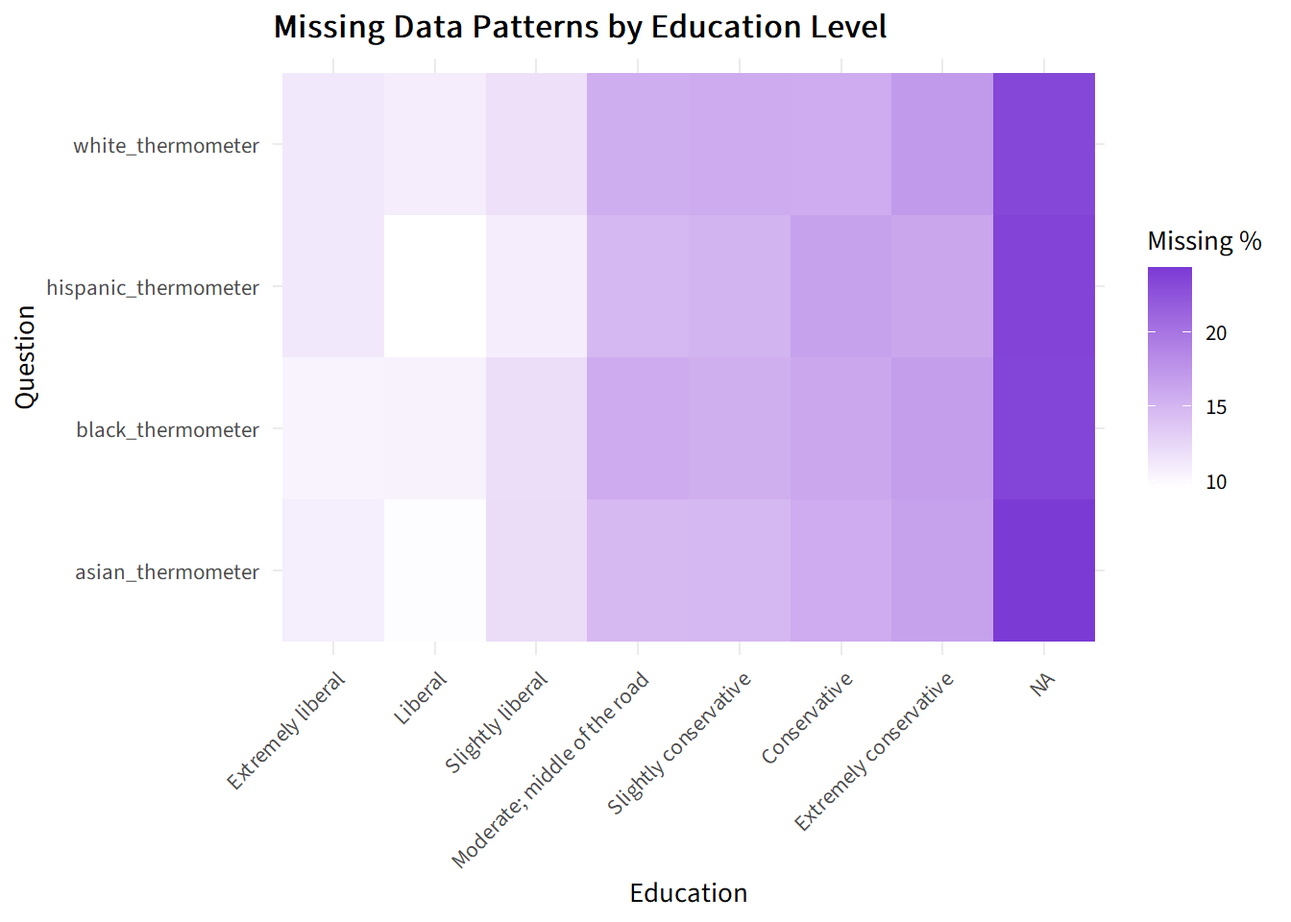
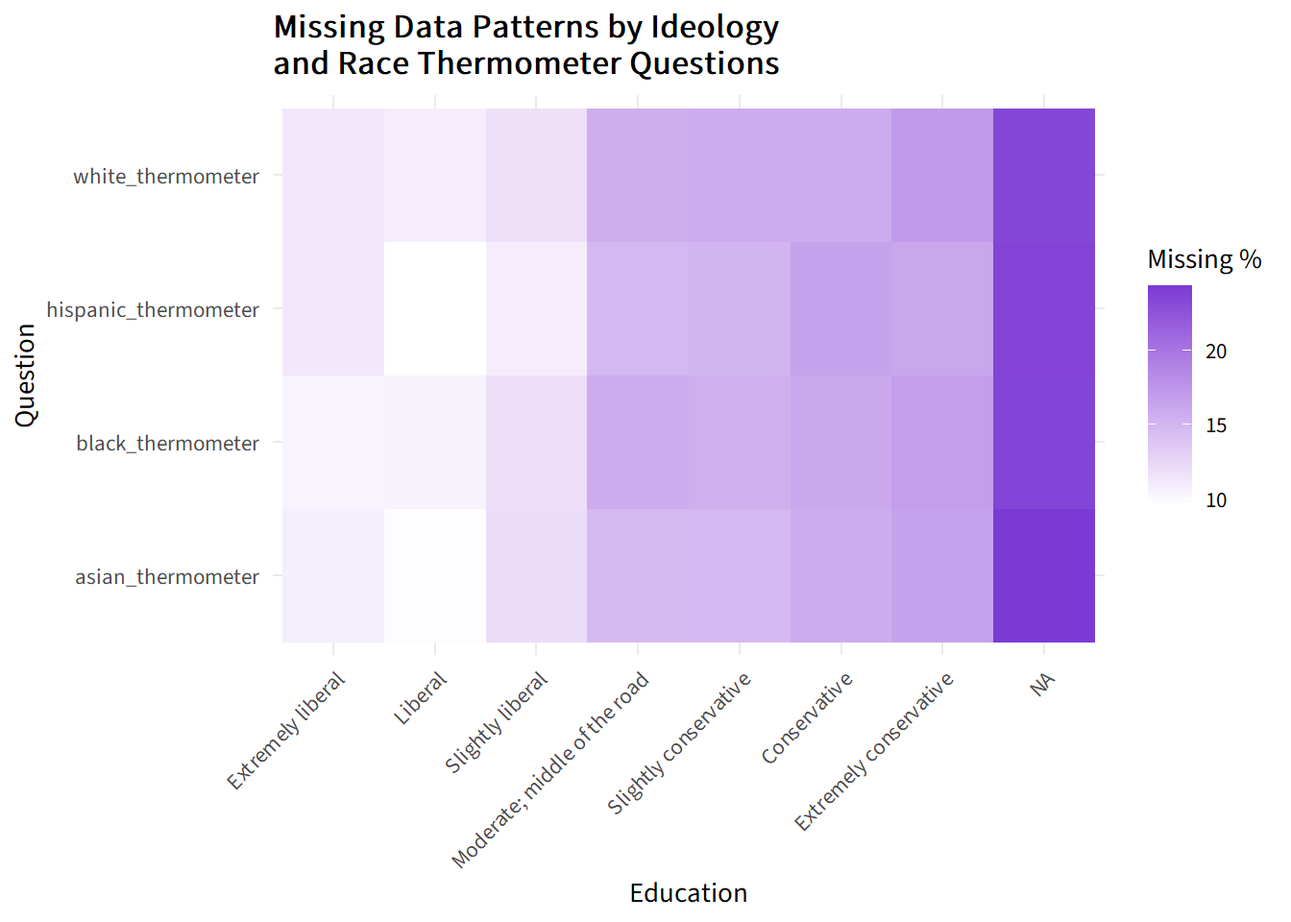
title changes to graphs

diff --git a/R Files/missing_data_analysis.html b/R Files/missing_data_analysis.html
@@ -121,12 +121,12 @@ pre > code.sourceCode > span > a:first-child::before { text-decoration: underlin
 <span id="cb4-5"><a href="#cb4-5" aria-hidden="true" tabindex="-1"></a>      race_ethnicity <span class="sc">==</span> <span class="st">'-9'</span> <span class="sc">~</span> <span class="st">"Refused"</span>,</span>
 <span id="cb4-6"><a href="#cb4-6" aria-hidden="true" tabindex="-1"></a>      race_ethnicity <span class="sc">==</span> <span class="st">'-8'</span> <span class="sc">~</span> <span class="st">"Don't know"</span>,</span>
 <span id="cb4-7"><a href="#cb4-7" aria-hidden="true" tabindex="-1"></a>      race_ethnicity <span class="sc">==</span> <span class="st">'-4'</span> <span class="sc">~</span> <span class="st">"Error"</span>,</span>
-<span id="cb4-8"><a href="#cb4-8" aria-hidden="true" tabindex="-1"></a>      race_ethnicity <span class="sc">==</span> <span class="st">'1'</span> <span class="sc">~</span> <span class="st">"White, non-Hispanic"</span>,</span>
-<span id="cb4-9"><a href="#cb4-9" aria-hidden="true" tabindex="-1"></a>      race_ethnicity <span class="sc">==</span> <span class="st">'2'</span> <span class="sc">~</span> <span class="st">"Black, non-Hispanic"</span>,</span>
+<span id="cb4-8"><a href="#cb4-8" aria-hidden="true" tabindex="-1"></a>      race_ethnicity <span class="sc">==</span> <span class="st">'1'</span> <span class="sc">~</span> <span class="st">"White"</span>,</span>
+<span id="cb4-9"><a href="#cb4-9" aria-hidden="true" tabindex="-1"></a>      race_ethnicity <span class="sc">==</span> <span class="st">'2'</span> <span class="sc">~</span> <span class="st">"Black"</span>,</span>
 <span id="cb4-10"><a href="#cb4-10" aria-hidden="true" tabindex="-1"></a>      race_ethnicity <span class="sc">==</span> <span class="st">'3'</span> <span class="sc">~</span> <span class="st">"Hispanic"</span>,</span>
-<span id="cb4-11"><a href="#cb4-11" aria-hidden="true" tabindex="-1"></a>      race_ethnicity <span class="sc">==</span> <span class="st">'4'</span> <span class="sc">~</span> <span class="st">"Asian or Native Hawaiian/other Pacific Islander, non-Hispanic"</span>,</span>
-<span id="cb4-12"><a href="#cb4-12" aria-hidden="true" tabindex="-1"></a>      race_ethnicity <span class="sc">==</span> <span class="st">'5'</span> <span class="sc">~</span> <span class="st">"Native American/Alaska Native or other race, non-Hispanic"</span>,</span>
-<span id="cb4-13"><a href="#cb4-13" aria-hidden="true" tabindex="-1"></a>      race_ethnicity <span class="sc">==</span> <span class="st">'6'</span> <span class="sc">~</span> <span class="st">"Multiple races, non-Hispanic"</span>,</span>
+<span id="cb4-11"><a href="#cb4-11" aria-hidden="true" tabindex="-1"></a>      race_ethnicity <span class="sc">==</span> <span class="st">'4'</span> <span class="sc">~</span> <span class="st">"Asian/Native Hawaiian/other Pacific Islander"</span>,</span>
+<span id="cb4-12"><a href="#cb4-12" aria-hidden="true" tabindex="-1"></a>      race_ethnicity <span class="sc">==</span> <span class="st">'5'</span> <span class="sc">~</span> <span class="st">"Native American/Alaska Native/other"</span>,</span>
+<span id="cb4-13"><a href="#cb4-13" aria-hidden="true" tabindex="-1"></a>      race_ethnicity <span class="sc">==</span> <span class="st">'6'</span> <span class="sc">~</span> <span class="st">"Multiple races"</span>,</span>
 <span id="cb4-14"><a href="#cb4-14" aria-hidden="true" tabindex="-1"></a>      <span class="cn">TRUE</span> <span class="sc">~</span> <span class="fu">as.character</span>(race_ethnicity)</span>
 <span id="cb4-15"><a href="#cb4-15" aria-hidden="true" tabindex="-1"></a>    ),</span>
 <span id="cb4-16"><a href="#cb4-16" aria-hidden="true" tabindex="-1"></a>    <span class="at">gender =</span> <span class="fu">case_when</span>(</span>
@@ -327,7 +327,7 @@ pre > code.sourceCode > span > a:first-child::before { text-decoration: underlin
 <span id="cb13-3"><a href="#cb13-3" aria-hidden="true" tabindex="-1"></a>  <span class="fu">gg_miss_fct</span>(<span class="at">fct =</span> educ) <span class="sc">+</span></span>
 <span id="cb13-4"><a href="#cb13-4" aria-hidden="true" tabindex="-1"></a>  <span class="fu">scale_fill_gradient</span>(<span class="at">low =</span> <span class="st">"white"</span>, <span class="at">high =</span> <span class="st">"#7b3ad4"</span>) <span class="sc">+</span></span>
 <span id="cb13-5"><a href="#cb13-5" aria-hidden="true" tabindex="-1"></a>  <span class="fu">theme_minimal</span>() <span class="sc">+</span></span>
-<span id="cb13-6"><a href="#cb13-6" aria-hidden="true" tabindex="-1"></a>  <span class="fu">labs</span>(<span class="at">title =</span> <span class="st">"Missing Data Patterns by Education Level"</span>,</span>
+<span id="cb13-6"><a href="#cb13-6" aria-hidden="true" tabindex="-1"></a>  <span class="fu">labs</span>(<span class="at">title =</span> <span class="st">"Missing Data Patterns by Education Level </span><span class="sc">\n</span><span class="st">and Race Thermometer Questions"</span>,</span>
 <span id="cb13-7"><a href="#cb13-7" aria-hidden="true" tabindex="-1"></a>       <span class="at">x =</span> <span class="st">"Education"</span>,</span>
 <span id="cb13-8"><a href="#cb13-8" aria-hidden="true" tabindex="-1"></a>       <span class="at">y =</span> <span class="st">"Question"</span>,</span>
 <span id="cb13-9"><a href="#cb13-9" aria-hidden="true" tabindex="-1"></a>       <span class="at">fill =</span> <span class="st">"Missing %"</span>) <span class="sc">+</span></span>
@@ -347,33 +347,42 @@ pre > code.sourceCode > span > a:first-child::before { text-decoration: underlin
 </div>
 <div class="cell">
 <div class="sourceCode cell-code" id="cb14"><pre class="sourceCode r code-with-copy"><code class="sourceCode r"><span id="cb14-1"><a href="#cb14-1" aria-hidden="true" tabindex="-1"></a>anes_2024 <span class="sc">|&gt;</span></span>
-<span id="cb14-2"><a href="#cb14-2" aria-hidden="true" tabindex="-1"></a>  <span class="fu">select</span>(lib_con_7pt, white_thermometer, black_thermometer, asian_thermometer, hispanic_thermometer) <span class="sc">|&gt;</span></span>
-<span id="cb14-3"><a href="#cb14-3" aria-hidden="true" tabindex="-1"></a>  <span class="fu">gg_miss_fct</span>(<span class="at">fct =</span> lib_con_7pt) <span class="sc">+</span></span>
-<span id="cb14-4"><a href="#cb14-4" aria-hidden="true" tabindex="-1"></a>  <span class="fu">scale_fill_gradient</span>(<span class="at">low =</span> <span class="st">"white"</span>, <span class="at">high =</span> <span class="st">"#7b3ad4"</span>) <span class="sc">+</span></span>
-<span id="cb14-5"><a href="#cb14-5" aria-hidden="true" tabindex="-1"></a>  <span class="fu">theme_minimal</span>() <span class="sc">+</span></span>
-<span id="cb14-6"><a href="#cb14-6" aria-hidden="true" tabindex="-1"></a>  <span class="fu">labs</span>(<span class="at">title =</span> <span class="st">"Missing Data Patterns by Education Level"</span>,</span>
-<span id="cb14-7"><a href="#cb14-7" aria-hidden="true" tabindex="-1"></a>       <span class="at">x =</span> <span class="st">"Education"</span>,</span>
-<span id="cb14-8"><a href="#cb14-8" aria-hidden="true" tabindex="-1"></a>       <span class="at">y =</span> <span class="st">"Question"</span>,</span>
-<span id="cb14-9"><a href="#cb14-9" aria-hidden="true" tabindex="-1"></a>       <span class="at">fill =</span> <span class="st">"Missing %"</span>) <span class="sc">+</span></span>
-<span id="cb14-10"><a href="#cb14-10" aria-hidden="true" tabindex="-1"></a>  <span class="fu">theme</span>(</span>
-<span id="cb14-11"><a href="#cb14-11" aria-hidden="true" tabindex="-1"></a>    <span class="at">text =</span> <span class="fu">element_text</span>(<span class="at">family =</span> <span class="st">"Source Sans 3"</span>),</span>
-<span id="cb14-12"><a href="#cb14-12" aria-hidden="true" tabindex="-1"></a>    <span class="at">plot.title =</span> <span class="fu">element_text</span>(<span class="at">face =</span> <span class="st">"bold"</span>),</span>
-<span id="cb14-13"><a href="#cb14-13" aria-hidden="true" tabindex="-1"></a>    <span class="at">plot.caption =</span> <span class="fu">element_text</span>(<span class="at">face =</span> <span class="st">"italic"</span>),</span>
-<span id="cb14-14"><a href="#cb14-14" aria-hidden="true" tabindex="-1"></a>    <span class="at">axis.text.x =</span> <span class="fu">element_text</span>(<span class="at">angle =</span> <span class="dv">45</span>, <span class="at">hjust =</span> <span class="dv">1</span>)</span>
-<span id="cb14-15"><a href="#cb14-15" aria-hidden="true" tabindex="-1"></a>    )</span></code><button title="Copy to Clipboard" class="code-copy-button"><i class="bi"></i></button></pre></div>
+<span id="cb14-2"><a href="#cb14-2" aria-hidden="true" tabindex="-1"></a>  <span class="fu">select</span>(race_ethnicity, white_thermometer, black_thermometer, asian_thermometer, hispanic_thermometer) <span class="sc">|&gt;</span></span>
+<span id="cb14-3"><a href="#cb14-3" aria-hidden="true" tabindex="-1"></a>  <span class="fu">mutate</span>(<span class="at">race_ethnicity =</span> <span class="fu">fct_relevel</span>(</span>
+<span id="cb14-4"><a href="#cb14-4" aria-hidden="true" tabindex="-1"></a>    race_ethnicity, </span>
+<span id="cb14-5"><a href="#cb14-5" aria-hidden="true" tabindex="-1"></a>    <span class="st">"White"</span>, </span>
+<span id="cb14-6"><a href="#cb14-6" aria-hidden="true" tabindex="-1"></a>    <span class="st">"Hispanic"</span>, </span>
+<span id="cb14-7"><a href="#cb14-7" aria-hidden="true" tabindex="-1"></a>    <span class="st">"Black"</span>, </span>
+<span id="cb14-8"><a href="#cb14-8" aria-hidden="true" tabindex="-1"></a>    <span class="st">"Asian/Native Hawaiian/other Pacific Islander"</span>,</span>
+<span id="cb14-9"><a href="#cb14-9" aria-hidden="true" tabindex="-1"></a>    <span class="st">"Native American/Alaska Native/other"</span>)) <span class="sc">|&gt;</span></span>
+<span id="cb14-10"><a href="#cb14-10" aria-hidden="true" tabindex="-1"></a>  <span class="fu">gg_miss_fct</span>(<span class="at">fct =</span> race_ethnicity) <span class="sc">+</span></span>
+<span id="cb14-11"><a href="#cb14-11" aria-hidden="true" tabindex="-1"></a>  <span class="fu">scale_fill_gradient</span>(<span class="at">low =</span> <span class="st">"white"</span>, <span class="at">high =</span> <span class="st">"#7b3ad4"</span>) <span class="sc">+</span></span>
+<span id="cb14-12"><a href="#cb14-12" aria-hidden="true" tabindex="-1"></a>  <span class="fu">theme_minimal</span>() <span class="sc">+</span></span>
+<span id="cb14-13"><a href="#cb14-13" aria-hidden="true" tabindex="-1"></a>  <span class="fu">labs</span>(<span class="at">title =</span> <span class="st">"Missing Data Patterns by Race </span><span class="sc">\n</span><span class="st">and Race Thermometer Questions"</span>,</span>
+<span id="cb14-14"><a href="#cb14-14" aria-hidden="true" tabindex="-1"></a>       <span class="at">x =</span> <span class="st">"Race"</span>,</span>
+<span id="cb14-15"><a href="#cb14-15" aria-hidden="true" tabindex="-1"></a>       <span class="at">y =</span> <span class="st">"Question"</span>,</span>
+<span id="cb14-16"><a href="#cb14-16" aria-hidden="true" tabindex="-1"></a>       <span class="at">fill =</span> <span class="st">"Missing %"</span>) <span class="sc">+</span></span>
+<span id="cb14-17"><a href="#cb14-17" aria-hidden="true" tabindex="-1"></a>  <span class="fu">theme</span>(</span>
+<span id="cb14-18"><a href="#cb14-18" aria-hidden="true" tabindex="-1"></a>    <span class="at">text =</span> <span class="fu">element_text</span>(<span class="at">family =</span> <span class="st">"Source Sans 3"</span>),</span>
+<span id="cb14-19"><a href="#cb14-19" aria-hidden="true" tabindex="-1"></a>    <span class="at">plot.title =</span> <span class="fu">element_text</span>(<span class="at">face =</span> <span class="st">"bold"</span>),</span>
+<span id="cb14-20"><a href="#cb14-20" aria-hidden="true" tabindex="-1"></a>    <span class="at">plot.caption =</span> <span class="fu">element_text</span>(<span class="at">face =</span> <span class="st">"italic"</span>),</span>
+<span id="cb14-21"><a href="#cb14-21" aria-hidden="true" tabindex="-1"></a>    <span class="at">axis.text.x =</span> <span class="fu">element_text</span>(<span class="at">angle =</span> <span class="dv">45</span>, <span class="at">hjust =</span> <span class="dv">1</span>),</span>
+<span id="cb14-22"><a href="#cb14-22" aria-hidden="true" tabindex="-1"></a>    )</span></code><button title="Copy to Clipboard" class="code-copy-button"><i class="bi"></i></button></pre></div>
 <div class="cell-output-display">
 <div>
 <figure class="figure">
-<p><img src="missing_data_analysis_files/figure-html/missing-heatmap-libcon-1.png" class="img-fluid figure-img" width="672"></p>
+<p><img src="missing_data_analysis_files/figure-html/missing-heatmap-race-1.png" class="img-fluid figure-img" width="672"></p>
 </figure>
 </div>
 </div>
+</div>
+<div class="cell">
 <div class="sourceCode cell-code" id="cb15"><pre class="sourceCode r code-with-copy"><code class="sourceCode r"><span id="cb15-1"><a href="#cb15-1" aria-hidden="true" tabindex="-1"></a>anes_2024 <span class="sc">|&gt;</span></span>
 <span id="cb15-2"><a href="#cb15-2" aria-hidden="true" tabindex="-1"></a>  <span class="fu">select</span>(lib_con_7pt, white_thermometer, black_thermometer, asian_thermometer, hispanic_thermometer) <span class="sc">|&gt;</span></span>
 <span id="cb15-3"><a href="#cb15-3" aria-hidden="true" tabindex="-1"></a>  <span class="fu">gg_miss_fct</span>(<span class="at">fct =</span> lib_con_7pt) <span class="sc">+</span></span>
 <span id="cb15-4"><a href="#cb15-4" aria-hidden="true" tabindex="-1"></a>  <span class="fu">scale_fill_gradient</span>(<span class="at">low =</span> <span class="st">"white"</span>, <span class="at">high =</span> <span class="st">"#7b3ad4"</span>) <span class="sc">+</span></span>
 <span id="cb15-5"><a href="#cb15-5" aria-hidden="true" tabindex="-1"></a>  <span class="fu">theme_minimal</span>() <span class="sc">+</span></span>
-<span id="cb15-6"><a href="#cb15-6" aria-hidden="true" tabindex="-1"></a>  <span class="fu">labs</span>(<span class="at">title =</span> <span class="st">"Missing Data Patterns by Education Level"</span>,</span>
+<span id="cb15-6"><a href="#cb15-6" aria-hidden="true" tabindex="-1"></a>  <span class="fu">labs</span>(<span class="at">title =</span> <span class="st">"Missing Data Patterns by Ideology </span><span class="sc">\n</span><span class="st">and Race Thermometer Questions"</span>,</span>
 <span id="cb15-7"><a href="#cb15-7" aria-hidden="true" tabindex="-1"></a>       <span class="at">x =</span> <span class="st">"Education"</span>,</span>
 <span id="cb15-8"><a href="#cb15-8" aria-hidden="true" tabindex="-1"></a>       <span class="at">y =</span> <span class="st">"Question"</span>,</span>
 <span id="cb15-9"><a href="#cb15-9" aria-hidden="true" tabindex="-1"></a>       <span class="at">fill =</span> <span class="st">"Missing %"</span>) <span class="sc">+</span></span>
@@ -386,16 +395,16 @@ pre > code.sourceCode > span > a:first-child::before { text-decoration: underlin
 <div class="cell-output-display">
 <div>
 <figure class="figure">
-<p><img src="missing_data_analysis_files/figure-html/missing-heatmap-libcon-2.png" class="img-fluid figure-img" width="672"></p>
+<p><img src="missing_data_analysis_files/figure-html/missing-heatmap-libcon-1.png" class="img-fluid figure-img" width="672"></p>
 </figure>
 </div>
 </div>
 <div class="sourceCode cell-code" id="cb16"><pre class="sourceCode r code-with-copy"><code class="sourceCode r"><span id="cb16-1"><a href="#cb16-1" aria-hidden="true" tabindex="-1"></a>anes_2024 <span class="sc">|&gt;</span></span>
-<span id="cb16-2"><a href="#cb16-2" aria-hidden="true" tabindex="-1"></a>  <span class="fu">select</span>(lib_con_7pt, gay_marriage, poli_party_reg, pres_vote, import_limits) <span class="sc">|&gt;</span></span>
+<span id="cb16-2"><a href="#cb16-2" aria-hidden="true" tabindex="-1"></a>  <span class="fu">select</span>(lib_con_7pt, gay_marriage_view, gay_marriage, poli_party_reg, pres_vote, import_limits) <span class="sc">|&gt;</span></span>
 <span id="cb16-3"><a href="#cb16-3" aria-hidden="true" tabindex="-1"></a>  <span class="fu">gg_miss_fct</span>(<span class="at">fct =</span> lib_con_7pt) <span class="sc">+</span></span>
 <span id="cb16-4"><a href="#cb16-4" aria-hidden="true" tabindex="-1"></a>  <span class="fu">scale_fill_gradient</span>(<span class="at">low =</span> <span class="st">"white"</span>, <span class="at">high =</span> <span class="st">"#7b3ad4"</span>) <span class="sc">+</span></span>
 <span id="cb16-5"><a href="#cb16-5" aria-hidden="true" tabindex="-1"></a>  <span class="fu">theme_minimal</span>() <span class="sc">+</span></span>
-<span id="cb16-6"><a href="#cb16-6" aria-hidden="true" tabindex="-1"></a>  <span class="fu">labs</span>(<span class="at">title =</span> <span class="st">"Missing Data Patterns by Education Level"</span>,</span>
+<span id="cb16-6"><a href="#cb16-6" aria-hidden="true" tabindex="-1"></a>  <span class="fu">labs</span>(<span class="at">title =</span> <span class="st">"Missing Data Patterns by Ideology </span><span class="sc">\n</span><span class="st">and Top 5 Unanswered Questions"</span>,</span>
 <span id="cb16-7"><a href="#cb16-7" aria-hidden="true" tabindex="-1"></a>       <span class="at">x =</span> <span class="st">"Education"</span>,</span>
 <span id="cb16-8"><a href="#cb16-8" aria-hidden="true" tabindex="-1"></a>       <span class="at">y =</span> <span class="st">"Question"</span>,</span>
 <span id="cb16-9"><a href="#cb16-9" aria-hidden="true" tabindex="-1"></a>       <span class="at">fill =</span> <span class="st">"Missing %"</span>) <span class="sc">+</span></span>
@@ -408,74 +417,29 @@ pre > code.sourceCode > span > a:first-child::before { text-decoration: underlin
 <div class="cell-output-display">
 <div>
 <figure class="figure">
-<p><img src="missing_data_analysis_files/figure-html/missing-heatmap-libcon-3.png" class="img-fluid figure-img" width="672"></p>
+<p><img src="missing_data_analysis_files/figure-html/missing-heatmap-libcon-2.png" class="img-fluid figure-img" width="672"></p>
 </figure>
 </div>
 </div>
-</div>
-<div class="cell">
 <div class="sourceCode cell-code" id="cb17"><pre class="sourceCode r code-with-copy"><code class="sourceCode r"><span id="cb17-1"><a href="#cb17-1" aria-hidden="true" tabindex="-1"></a>anes_2024 <span class="sc">|&gt;</span></span>
-<span id="cb17-2"><a href="#cb17-2" aria-hidden="true" tabindex="-1"></a>  <span class="fu">select</span>(lib_con_7pt, sexual_harassment, budget_healthcare, gun_ban_assault_rifles, gun_difficulty, blm_thermometer) <span class="sc">|&gt;</span></span>
-<span id="cb17-3"><a href="#cb17-3" aria-hidden="true" tabindex="-1"></a>  <span class="fu">gg_miss_fct</span>(<span class="at">fct =</span> lib_con_7pt) <span class="sc">+</span></span>
-<span id="cb17-4"><a href="#cb17-4" aria-hidden="true" tabindex="-1"></a>  <span class="fu">scale_fill_gradient</span>(<span class="at">low =</span> <span class="st">"white"</span>, <span class="at">high =</span> <span class="st">"#7b3ad4"</span>) <span class="sc">+</span></span>
-<span id="cb17-5"><a href="#cb17-5" aria-hidden="true" tabindex="-1"></a>  <span class="fu">theme_minimal</span>() <span class="sc">+</span></span>
-<span id="cb17-6"><a href="#cb17-6" aria-hidden="true" tabindex="-1"></a>  <span class="fu">labs</span>(<span class="at">title =</span> <span class="st">"Missing Data Patterns by Education Level and Liberal Concerns"</span>,</span>
-<span id="cb17-7"><a href="#cb17-7" aria-hidden="true" tabindex="-1"></a>       <span class="at">x =</span> <span class="st">"Education"</span>,</span>
-<span id="cb17-8"><a href="#cb17-8" aria-hidden="true" tabindex="-1"></a>       <span class="at">y =</span> <span class="st">"Question"</span>,</span>
-<span id="cb17-9"><a href="#cb17-9" aria-hidden="true" tabindex="-1"></a>       <span class="at">fill =</span> <span class="st">"Missing %"</span>) <span class="sc">+</span></span>
-<span id="cb17-10"><a href="#cb17-10" aria-hidden="true" tabindex="-1"></a>  <span class="fu">theme</span>(</span>
-<span id="cb17-11"><a href="#cb17-11" aria-hidden="true" tabindex="-1"></a>    <span class="at">text =</span> <span class="fu">element_text</span>(<span class="at">family =</span> <span class="st">"Source Sans 3"</span>),</span>
-<span id="cb17-12"><a href="#cb17-12" aria-hidden="true" tabindex="-1"></a>    <span class="at">plot.title =</span> <span class="fu">element_text</span>(<span class="at">face =</span> <span class="st">"bold"</span>),</span>
-<span id="cb17-13"><a href="#cb17-13" aria-hidden="true" tabindex="-1"></a>    <span class="at">plot.caption =</span> <span class="fu">element_text</span>(<span class="at">face =</span> <span class="st">"italic"</span>),</span>
-<span id="cb17-14"><a href="#cb17-14" aria-hidden="true" tabindex="-1"></a>    <span class="at">axis.text.x =</span> <span class="fu">element_text</span>(<span class="at">angle =</span> <span class="dv">45</span>, <span class="at">hjust =</span> <span class="dv">1</span>)</span>
+<span id="cb17-2"><a href="#cb17-2" aria-hidden="true" tabindex="-1"></a>  <span class="fu">gg_miss_fct</span>(<span class="at">fct =</span> lib_con_7pt) <span class="sc">+</span></span>
+<span id="cb17-3"><a href="#cb17-3" aria-hidden="true" tabindex="-1"></a>  <span class="fu">scale_fill_gradient</span>(<span class="at">low =</span> <span class="st">"white"</span>, <span class="at">high =</span> <span class="st">"#7b3ad4"</span>) <span class="sc">+</span></span>
+<span id="cb17-4"><a href="#cb17-4" aria-hidden="true" tabindex="-1"></a>  <span class="fu">theme_minimal</span>() <span class="sc">+</span></span>
+<span id="cb17-5"><a href="#cb17-5" aria-hidden="true" tabindex="-1"></a>  <span class="fu">labs</span>(<span class="at">title =</span> <span class="st">"Missing Data Patterns by Ideology </span><span class="sc">\n</span><span class="st">and All Survey Questions"</span>,</span>
+<span id="cb17-6"><a href="#cb17-6" aria-hidden="true" tabindex="-1"></a>       <span class="at">x =</span> <span class="st">"Education"</span>,</span>
+<span id="cb17-7"><a href="#cb17-7" aria-hidden="true" tabindex="-1"></a>       <span class="at">y =</span> <span class="st">"Question"</span>,</span>
+<span id="cb17-8"><a href="#cb17-8" aria-hidden="true" tabindex="-1"></a>       <span class="at">fill =</span> <span class="st">"Missing %"</span>) <span class="sc">+</span></span>
+<span id="cb17-9"><a href="#cb17-9" aria-hidden="true" tabindex="-1"></a>  <span class="fu">theme</span>(</span>
+<span id="cb17-10"><a href="#cb17-10" aria-hidden="true" tabindex="-1"></a>    <span class="at">text =</span> <span class="fu">element_text</span>(<span class="at">family =</span> <span class="st">"Source Sans 3"</span>),</span>
+<span id="cb17-11"><a href="#cb17-11" aria-hidden="true" tabindex="-1"></a>    <span class="at">plot.title =</span> <span class="fu">element_text</span>(<span class="at">face =</span> <span class="st">"bold"</span>),</span>
+<span id="cb17-12"><a href="#cb17-12" aria-hidden="true" tabindex="-1"></a>    <span class="at">plot.caption =</span> <span class="fu">element_text</span>(<span class="at">face =</span> <span class="st">"italic"</span>),</span>
+<span id="cb17-13"><a href="#cb17-13" aria-hidden="true" tabindex="-1"></a>    <span class="at">axis.text.x =</span> <span class="fu">element_text</span>(<span class="at">angle =</span> <span class="dv">45</span>, <span class="at">hjust =</span> <span class="dv">1</span>),</span>
+<span id="cb17-14"><a href="#cb17-14" aria-hidden="true" tabindex="-1"></a>    <span class="at">axis.text.y =</span> <span class="fu">element_blank</span>()</span>
 <span id="cb17-15"><a href="#cb17-15" aria-hidden="true" tabindex="-1"></a>    )</span></code><button title="Copy to Clipboard" class="code-copy-button"><i class="bi"></i></button></pre></div>
 <div class="cell-output-display">
 <div>
 <figure class="figure">
-<p><img src="missing_data_analysis_files/figure-html/missing-heatmap-libcon-concerns-1.png" class="img-fluid figure-img" width="672"></p>
-</figure>
-</div>
-</div>
-<div class="sourceCode cell-code" id="cb18"><pre class="sourceCode r code-with-copy"><code class="sourceCode r"><span id="cb18-1"><a href="#cb18-1" aria-hidden="true" tabindex="-1"></a>anes_2024 <span class="sc">|&gt;</span></span>
-<span id="cb18-2"><a href="#cb18-2" aria-hidden="true" tabindex="-1"></a>  <span class="fu">select</span>(lib_con_7pt, import_limits, free_trade, illegal_immigrant_thermometer, mexico_threat, immigration_crime) <span class="sc">|&gt;</span></span>
-<span id="cb18-3"><a href="#cb18-3" aria-hidden="true" tabindex="-1"></a>  <span class="fu">gg_miss_fct</span>(<span class="at">fct =</span> lib_con_7pt) <span class="sc">+</span></span>
-<span id="cb18-4"><a href="#cb18-4" aria-hidden="true" tabindex="-1"></a>  <span class="fu">scale_fill_gradient</span>(<span class="at">low =</span> <span class="st">"white"</span>, <span class="at">high =</span> <span class="st">"#7b3ad4"</span>) <span class="sc">+</span></span>
-<span id="cb18-5"><a href="#cb18-5" aria-hidden="true" tabindex="-1"></a>  <span class="fu">theme_minimal</span>() <span class="sc">+</span></span>
-<span id="cb18-6"><a href="#cb18-6" aria-hidden="true" tabindex="-1"></a>  <span class="fu">labs</span>(<span class="at">title =</span> <span class="st">"Missing Data Patterns by Education Level and Conservative Concerns"</span>,</span>
-<span id="cb18-7"><a href="#cb18-7" aria-hidden="true" tabindex="-1"></a>       <span class="at">x =</span> <span class="st">"Education"</span>,</span>
-<span id="cb18-8"><a href="#cb18-8" aria-hidden="true" tabindex="-1"></a>       <span class="at">y =</span> <span class="st">"Question"</span>,</span>
-<span id="cb18-9"><a href="#cb18-9" aria-hidden="true" tabindex="-1"></a>       <span class="at">fill =</span> <span class="st">"Missing %"</span>) <span class="sc">+</span></span>
-<span id="cb18-10"><a href="#cb18-10" aria-hidden="true" tabindex="-1"></a>  <span class="fu">theme</span>(</span>
-<span id="cb18-11"><a href="#cb18-11" aria-hidden="true" tabindex="-1"></a>    <span class="at">text =</span> <span class="fu">element_text</span>(<span class="at">family =</span> <span class="st">"Source Sans 3"</span>),</span>
-<span id="cb18-12"><a href="#cb18-12" aria-hidden="true" tabindex="-1"></a>    <span class="at">plot.title =</span> <span class="fu">element_text</span>(<span class="at">face =</span> <span class="st">"bold"</span>),</span>
-<span id="cb18-13"><a href="#cb18-13" aria-hidden="true" tabindex="-1"></a>    <span class="at">plot.caption =</span> <span class="fu">element_text</span>(<span class="at">face =</span> <span class="st">"italic"</span>),</span>
-<span id="cb18-14"><a href="#cb18-14" aria-hidden="true" tabindex="-1"></a>    <span class="at">axis.text.x =</span> <span class="fu">element_text</span>(<span class="at">angle =</span> <span class="dv">45</span>, <span class="at">hjust =</span> <span class="dv">1</span>)</span>
-<span id="cb18-15"><a href="#cb18-15" aria-hidden="true" tabindex="-1"></a>    )</span></code><button title="Copy to Clipboard" class="code-copy-button"><i class="bi"></i></button></pre></div>
-<div class="cell-output-display">
-<div>
-<figure class="figure">
-<p><img src="missing_data_analysis_files/figure-html/missing-heatmap-libcon-concerns-2.png" class="img-fluid figure-img" width="672"></p>
-</figure>
-</div>
-</div>
-<div class="sourceCode cell-code" id="cb19"><pre class="sourceCode r code-with-copy"><code class="sourceCode r"><span id="cb19-1"><a href="#cb19-1" aria-hidden="true" tabindex="-1"></a>anes_2024 <span class="sc">|&gt;</span></span>
-<span id="cb19-2"><a href="#cb19-2" aria-hidden="true" tabindex="-1"></a>  <span class="fu">gg_miss_fct</span>(<span class="at">fct =</span> lib_con_7pt) <span class="sc">+</span></span>
-<span id="cb19-3"><a href="#cb19-3" aria-hidden="true" tabindex="-1"></a>  <span class="fu">scale_fill_gradient</span>(<span class="at">low =</span> <span class="st">"white"</span>, <span class="at">high =</span> <span class="st">"#7b3ad4"</span>) <span class="sc">+</span></span>
-<span id="cb19-4"><a href="#cb19-4" aria-hidden="true" tabindex="-1"></a>  <span class="fu">theme_minimal</span>() <span class="sc">+</span></span>
-<span id="cb19-5"><a href="#cb19-5" aria-hidden="true" tabindex="-1"></a>  <span class="fu">labs</span>(<span class="at">title =</span> <span class="st">"Missing Data Patterns by Education Level and Thermometer Questions"</span>,</span>
-<span id="cb19-6"><a href="#cb19-6" aria-hidden="true" tabindex="-1"></a>       <span class="at">x =</span> <span class="st">"Education"</span>,</span>
-<span id="cb19-7"><a href="#cb19-7" aria-hidden="true" tabindex="-1"></a>       <span class="at">y =</span> <span class="st">"Question"</span>,</span>
-<span id="cb19-8"><a href="#cb19-8" aria-hidden="true" tabindex="-1"></a>       <span class="at">fill =</span> <span class="st">"Missing %"</span>) <span class="sc">+</span></span>
-<span id="cb19-9"><a href="#cb19-9" aria-hidden="true" tabindex="-1"></a>  <span class="fu">theme</span>(</span>
-<span id="cb19-10"><a href="#cb19-10" aria-hidden="true" tabindex="-1"></a>    <span class="at">text =</span> <span class="fu">element_text</span>(<span class="at">family =</span> <span class="st">"Source Sans 3"</span>),</span>
-<span id="cb19-11"><a href="#cb19-11" aria-hidden="true" tabindex="-1"></a>    <span class="at">plot.title =</span> <span class="fu">element_text</span>(<span class="at">face =</span> <span class="st">"bold"</span>),</span>
-<span id="cb19-12"><a href="#cb19-12" aria-hidden="true" tabindex="-1"></a>    <span class="at">plot.caption =</span> <span class="fu">element_text</span>(<span class="at">face =</span> <span class="st">"italic"</span>),</span>
-<span id="cb19-13"><a href="#cb19-13" aria-hidden="true" tabindex="-1"></a>    <span class="at">axis.text.x =</span> <span class="fu">element_text</span>(<span class="at">angle =</span> <span class="dv">45</span>, <span class="at">hjust =</span> <span class="dv">1</span>)</span>
-<span id="cb19-14"><a href="#cb19-14" aria-hidden="true" tabindex="-1"></a>    )</span></code><button title="Copy to Clipboard" class="code-copy-button"><i class="bi"></i></button></pre></div>
-<div class="cell-output-display">
-<div>
-<figure class="figure">
-<p><img src="missing_data_analysis_files/figure-html/missing-heatmap-libcon-concerns-3.png" class="img-fluid figure-img" width="672"></p>
+<p><img src="missing_data_analysis_files/figure-html/missing-heatmap-libcon-3.png" class="img-fluid figure-img" width="672"></p>
 </figure>
 </div>
 </div>
